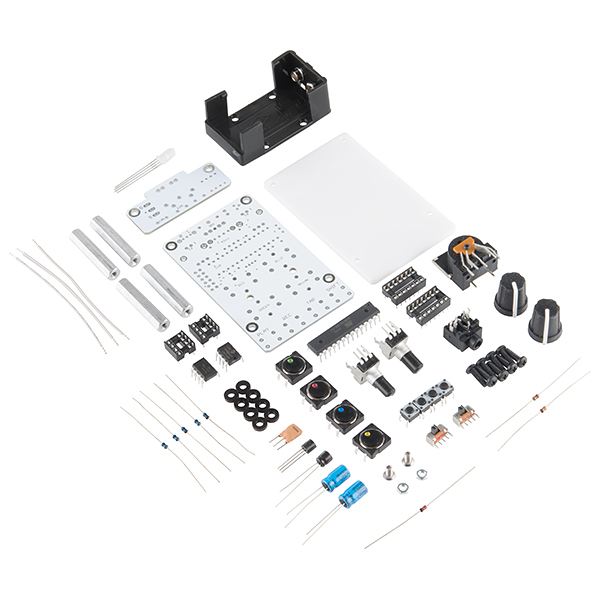
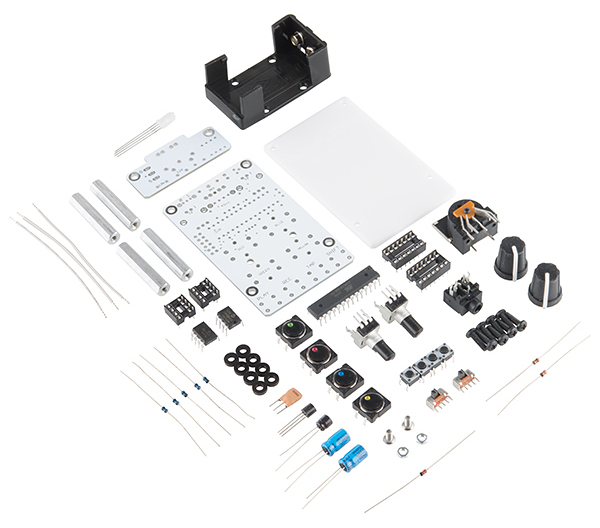
Amend bits here and there on presentation

diff --git a/presentations/fosdem2017/presentation.md b/presentations/fosdem2017/presentation.md
@@ -13,13 +13,21 @@ In the US:
 - 1,114,000 Software Developers
 - 315,900 Electrical and Electronic Engineers
 
-
 ![](images/reddit.jpg)
 
 Reddit: 
-- /r/programming 720,000 subscribers
-- /r/electronics 66,000 subscribers
+- `/r/programming` 720,000 subscribers
+- `/r/electronics` 66,000 subscribers
 
+---
+
+# On the other hand
+
+- there is about __one__ EE to every __three__ programmers
+- 10% of software devlopers know C  (maybe, according to TIOBE)
+
+- `/r/electronics` 66,000 subscribers
+- `/r/c_programming` 30,000 subscribers  
 ---
 
 # Where is the Linux of electronics?
@@ -169,7 +177,8 @@ PNsPfrOeY6REXhUiEV1...
 
 ---
 # The Virtual Kit
-<img src=images/kit.jpg />
+
+<img height=500px src=images/kit.jpg />
 
 ---
 
@@ -233,8 +242,8 @@ https://github.com/dvdfreitag/Signal-Detector
 ##Kitnic 
 - React front-end
 - Services using node.js and Express
-  - e.g a service to clone git repos and serve the files
-  - [github.com/kasbah/git-clone-server](https://github.com/kasbah/git-clone-server)
+  - e.g. a service to clone git repos and serve the files:
+  [github.com/kasbah/git-clone-server](https://github.com/kasbah/git-clone-server)
 
 ---
 <svg width=400px viewBox="0 0 18 7">
@@ -289,7 +298,7 @@ function extract(R) {
         return Qty(match1[0])
     }
     //"1k5" style
-    const match2 = /\d+(k|m)\d+/i.exec(R)
+    const match2 = /\d+(k|m)\d*/i.exec(R)
     if (match2) {
         const v = resistorData.notationToValue(match2[0]) + ' ohm'
         return Qty(v)
@@ -297,11 +306,11 @@ function extract(R) {
 }
 
 function equal(R1, R2) {
-    return extract(R1) === extract(R2)
+    return extract(R1).eq(extract(R2))
 }
 
 ```
-[Common Parts Library - CC-By Octopart in YAML format](https://github.com/octopart/cpl-data)
+Combine this with: [Common Parts Library - CC-By Octopart in YAML format](https://github.com/octopart/cpl-data)
 ---
 
 <video controls=true class=fullscreen src=images/demo.mp4 />
@@ -334,8 +343,9 @@ Image credits
 
 <li>ohwr.org logo - CC-BY-SA 4.0, CERN, 2014
 <li>Cover of Troubleshooting Analog Circuits by Robert A. Pease - © 1991 by Butterworth-Heinemann
-<li>Meat grinder & Disassembled hand-powered grinder - CC-BY-SA 3.0 - Wikipedia - Photos taken by de:user:Kku. Modified by de:user:Rainer Zenz</li>
-<li>Bleep Drum Kit with MIDI - CC-BY-SA 2.0 - SparkFun Electronics</li>
+<li>Meat grinder & Disassembled hand-powered grinder - CC-BY-SA 3.0 - Wikipedia - Photos taken by de:user:Kku. Modified by de:user:Rainer Zenz
+<li>Bleep Drum Kit with MIDI - CC-BY-SA 2.0 - SparkFun Electronics
+<li>Iterative development - Amended version of Henrik Kniberg's drawing, http://blog.crisp.se/2016/01/25/henrikkniberg/making-sense-of-mvp
 <li>3 Resistors - CC-BY-SA https://commons.wikimedia.org/wiki/User:Afrank99 
 <li> GFP-tagged Cln2 - CC-BY - Jean Peccoud - https://www.youtube.com/watch?v=sG2Zd3vRdvQ
 
